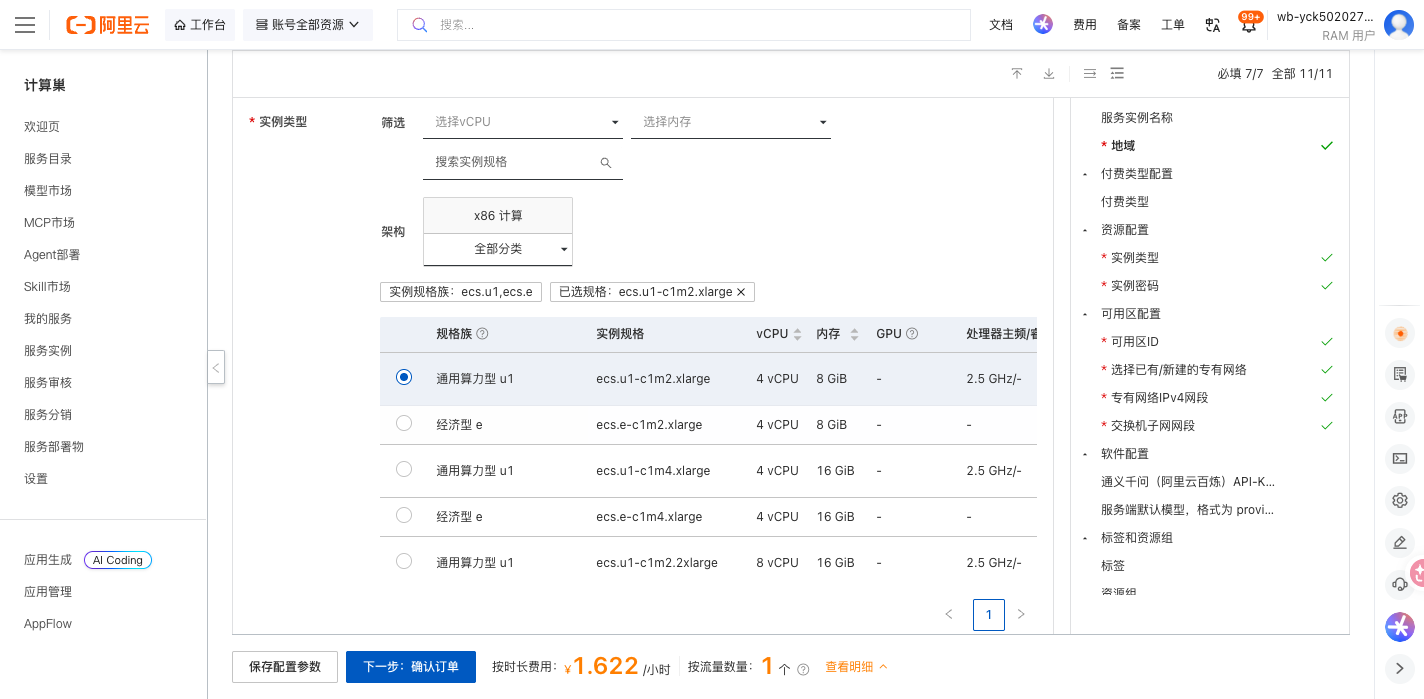
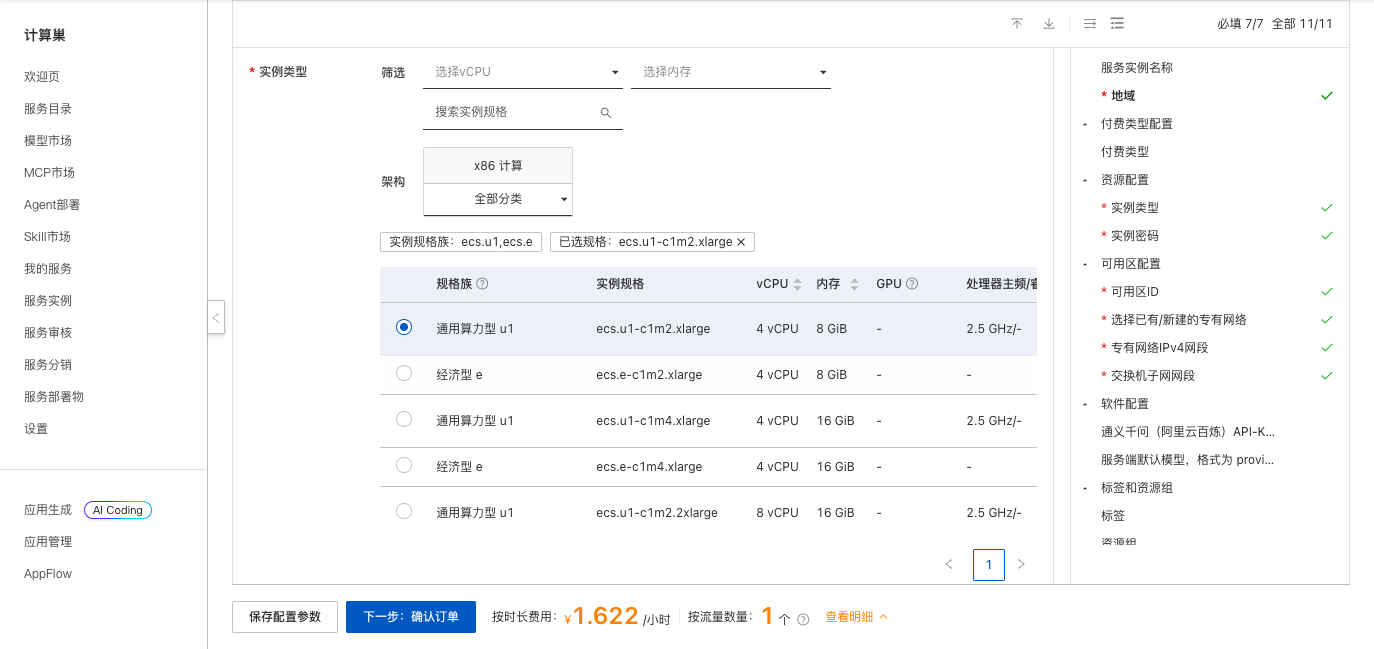
docs: simplify deployment guide and crop console screenshots

diff --git a/docs/deployment-doc.md b/docs/deployment-doc.md
@@ -6,27 +6,6 @@
 
 本方案通过 Docker Compose 在一台云服务器 ECS 上部署 OpenMAIC v1.0.3，并前置 Nginx 反向代理，适合教学内容制作、课程体验和开发测试。
 
-## 前提条件
-
-部署 OpenMAIC 需要创建 ECS、VPC 和资源编排栈。使用 RAM 用户时，请确保已授予以下权限：
-
-| 权限策略名称 | 说明 |
-| --- | --- |
-| AliyunECSFullAccess | 管理云服务器 ECS |
-| AliyunVPCFullAccess | 管理专有网络 VPC |
-| AliyunROSFullAccess | 管理资源编排 ROS |
-| AliyunComputeNestUserFullAccess | 管理计算巢用户侧资源 |
-
-如需使用通义千问模型，请提前在 [阿里云百炼](https://bailian.console.aliyun.com/) 开通服务并创建 API Key。
-
-## 计费说明
-
-部署费用主要来自 ECS 实例、200 GiB ESSD 系统盘和公网流量。模型调用费用由所选模型服务商单独收取。创建服务实例时，控制台会根据地域、可用区和实例规格显示预估费用，最终费用以实际账单为准。
-
-## 部署架构
-
-计算巢通过 ROS 创建 VPC、交换机、安全组和 ECS 实例，并通过云助手在 ECS 中以 Docker Compose 运行 OpenMAIC。外部请求经 Nginx 转发到 OpenMAIC 应用，对外端口为 3000。部署时会随机生成站点访问码，作为进入课堂平台的门禁。
-
 ## 部署流程
 
 ### 1. 创建服务实例

diff --git a/docs/index.md b/docs/index.md
@@ -6,27 +6,6 @@
 
 本方案通过 Docker Compose 在一台云服务器 ECS 上部署 OpenMAIC v1.0.3，并前置 Nginx 反向代理，适合教学内容制作、课程体验和开发测试。
 
-## 前提条件
-
-部署 OpenMAIC 需要创建 ECS、VPC 和资源编排栈。使用 RAM 用户时，请确保已授予以下权限：
-
-| 权限策略名称 | 说明 |
-| --- | --- |
-| AliyunECSFullAccess | 管理云服务器 ECS |
-| AliyunVPCFullAccess | 管理专有网络 VPC |
-| AliyunROSFullAccess | 管理资源编排 ROS |
-| AliyunComputeNestUserFullAccess | 管理计算巢用户侧资源 |
-
-如需使用通义千问模型，请提前在 [阿里云百炼](https://bailian.console.aliyun.com/) 开通服务并创建 API Key。
-
-## 计费说明
-
-部署费用主要来自 ECS 实例、200 GiB ESSD 系统盘和公网流量。模型调用费用由所选模型服务商单独收取。创建服务实例时，控制台会根据地域、可用区和实例规格显示预估费用，最终费用以实际账单为准。
-
-## 部署架构
-
-计算巢通过 ROS 创建 VPC、交换机、安全组和 ECS 实例，并通过云助手在 ECS 中以 Docker Compose 运行 OpenMAIC。外部请求经 Nginx 转发到 OpenMAIC 应用，对外端口为 3000。部署时会随机生成站点访问码，作为进入课堂平台的门禁。
-
 ## 部署流程
 
 ### 1. 创建服务实例
